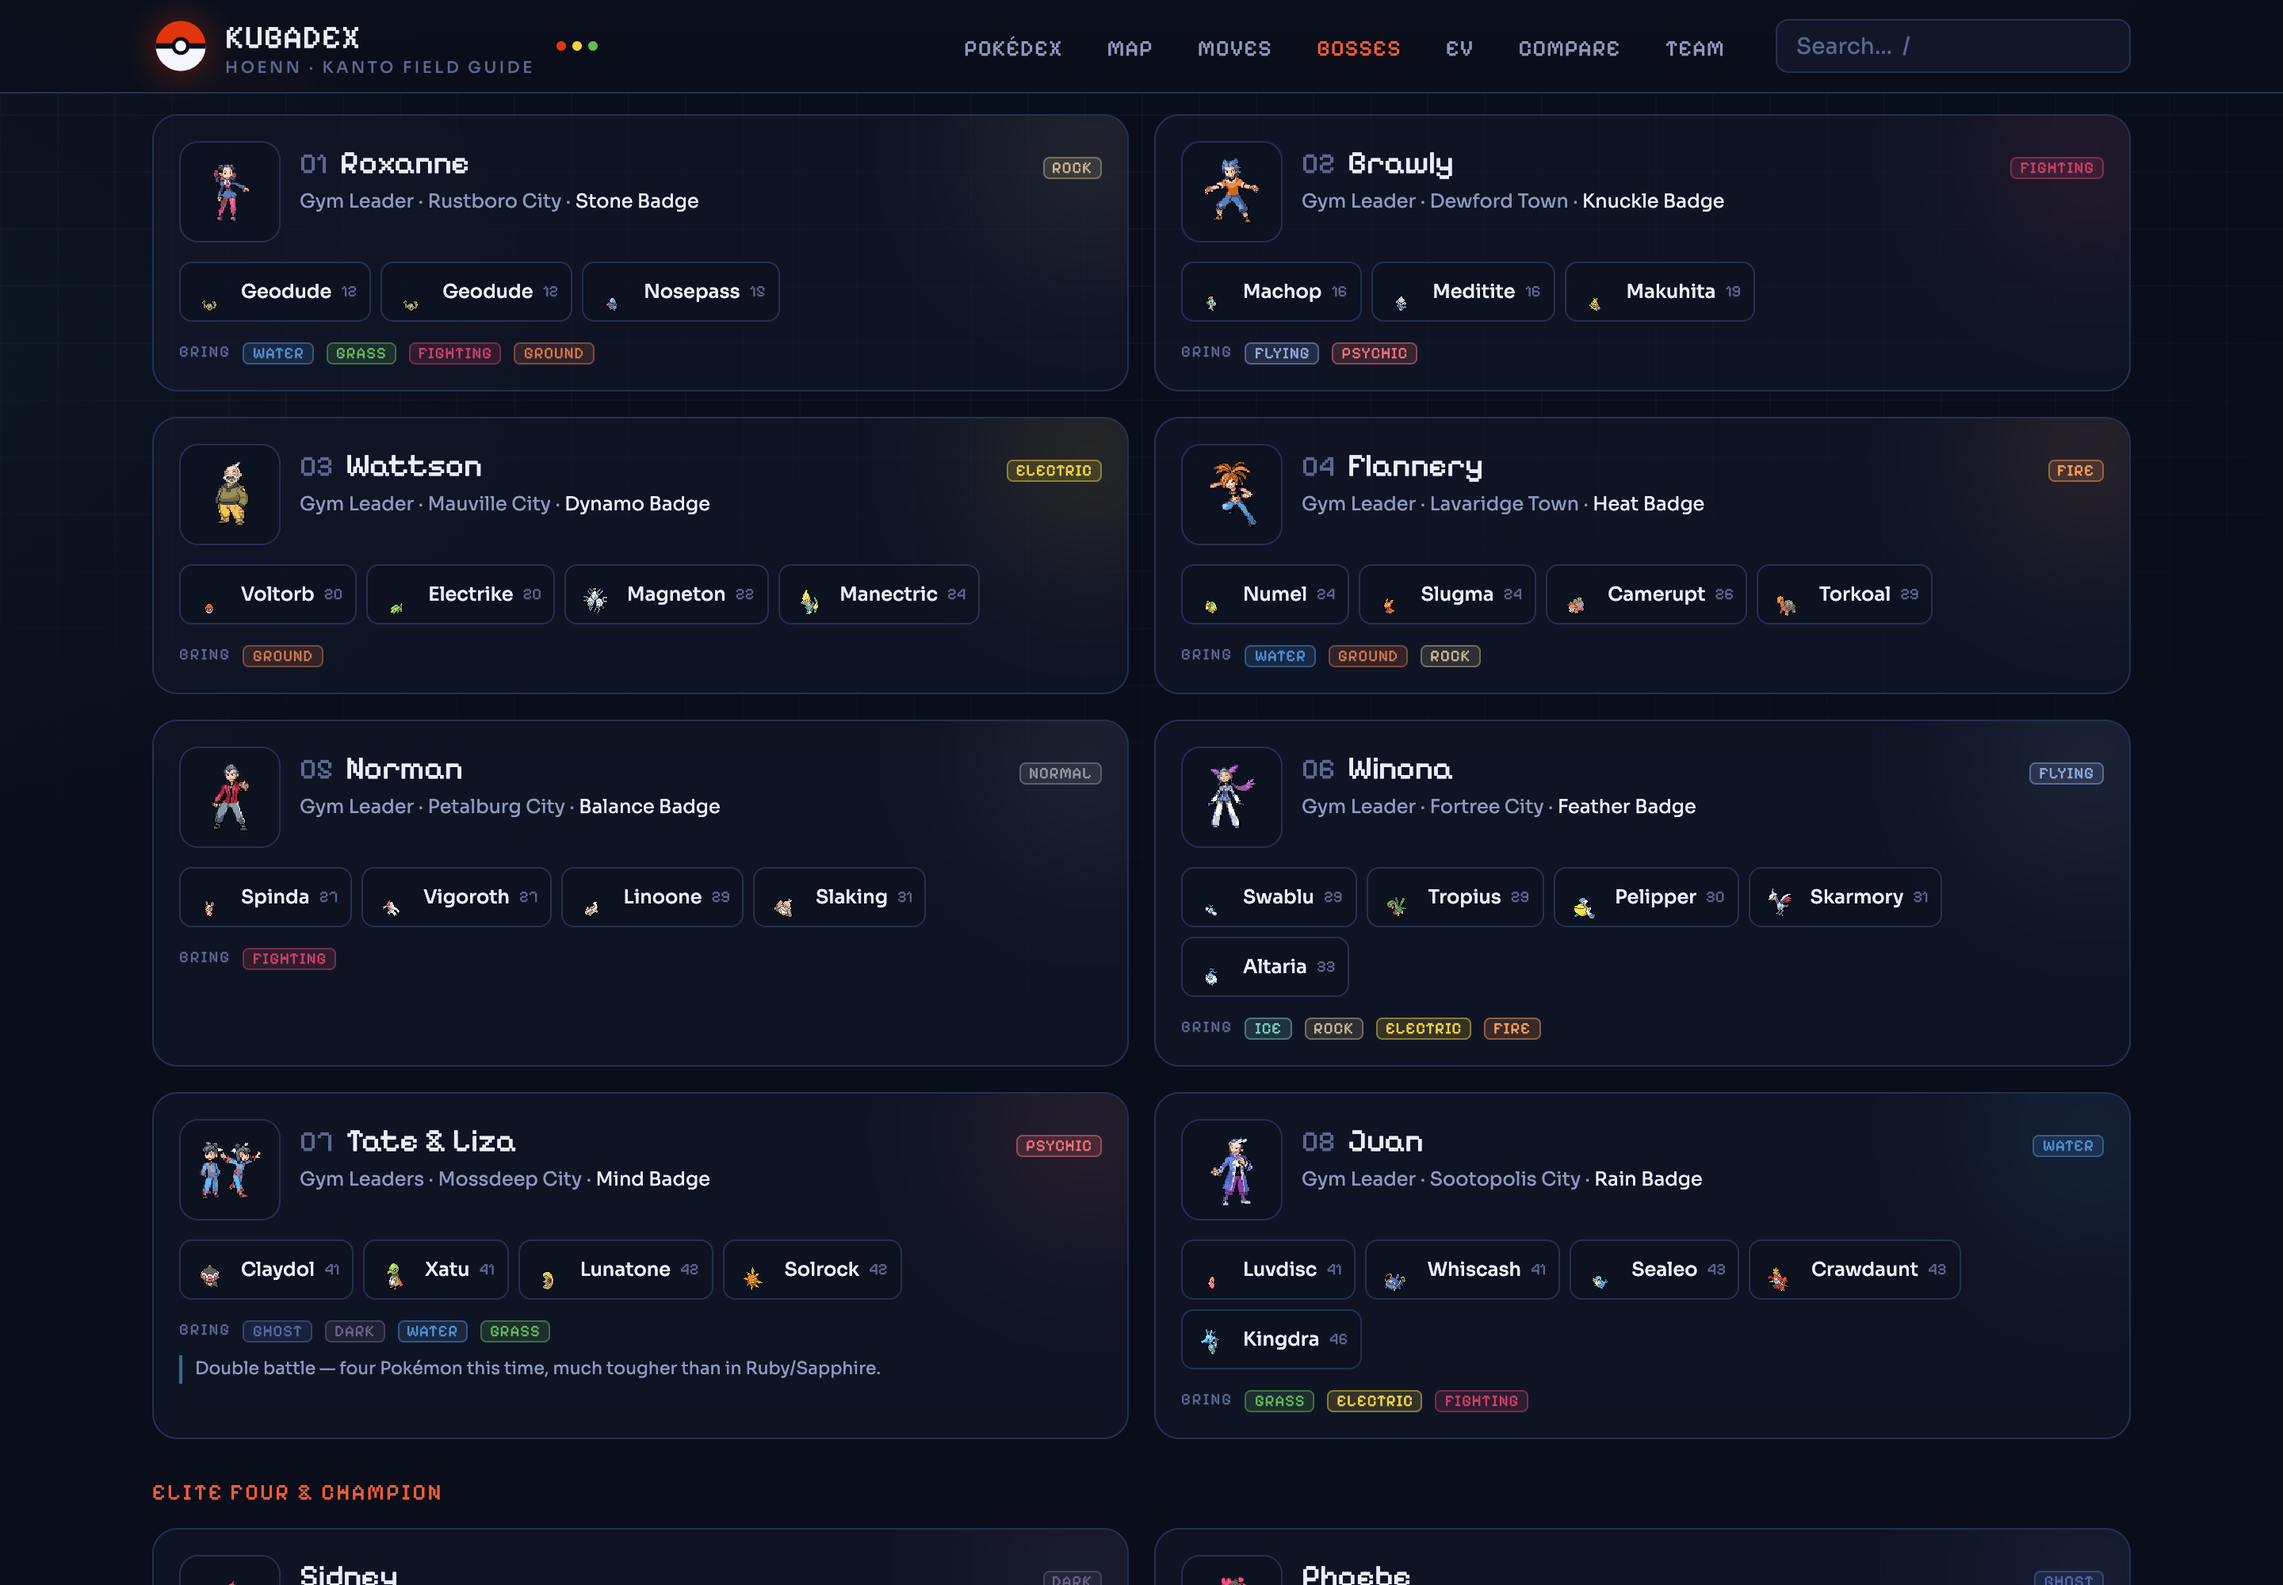
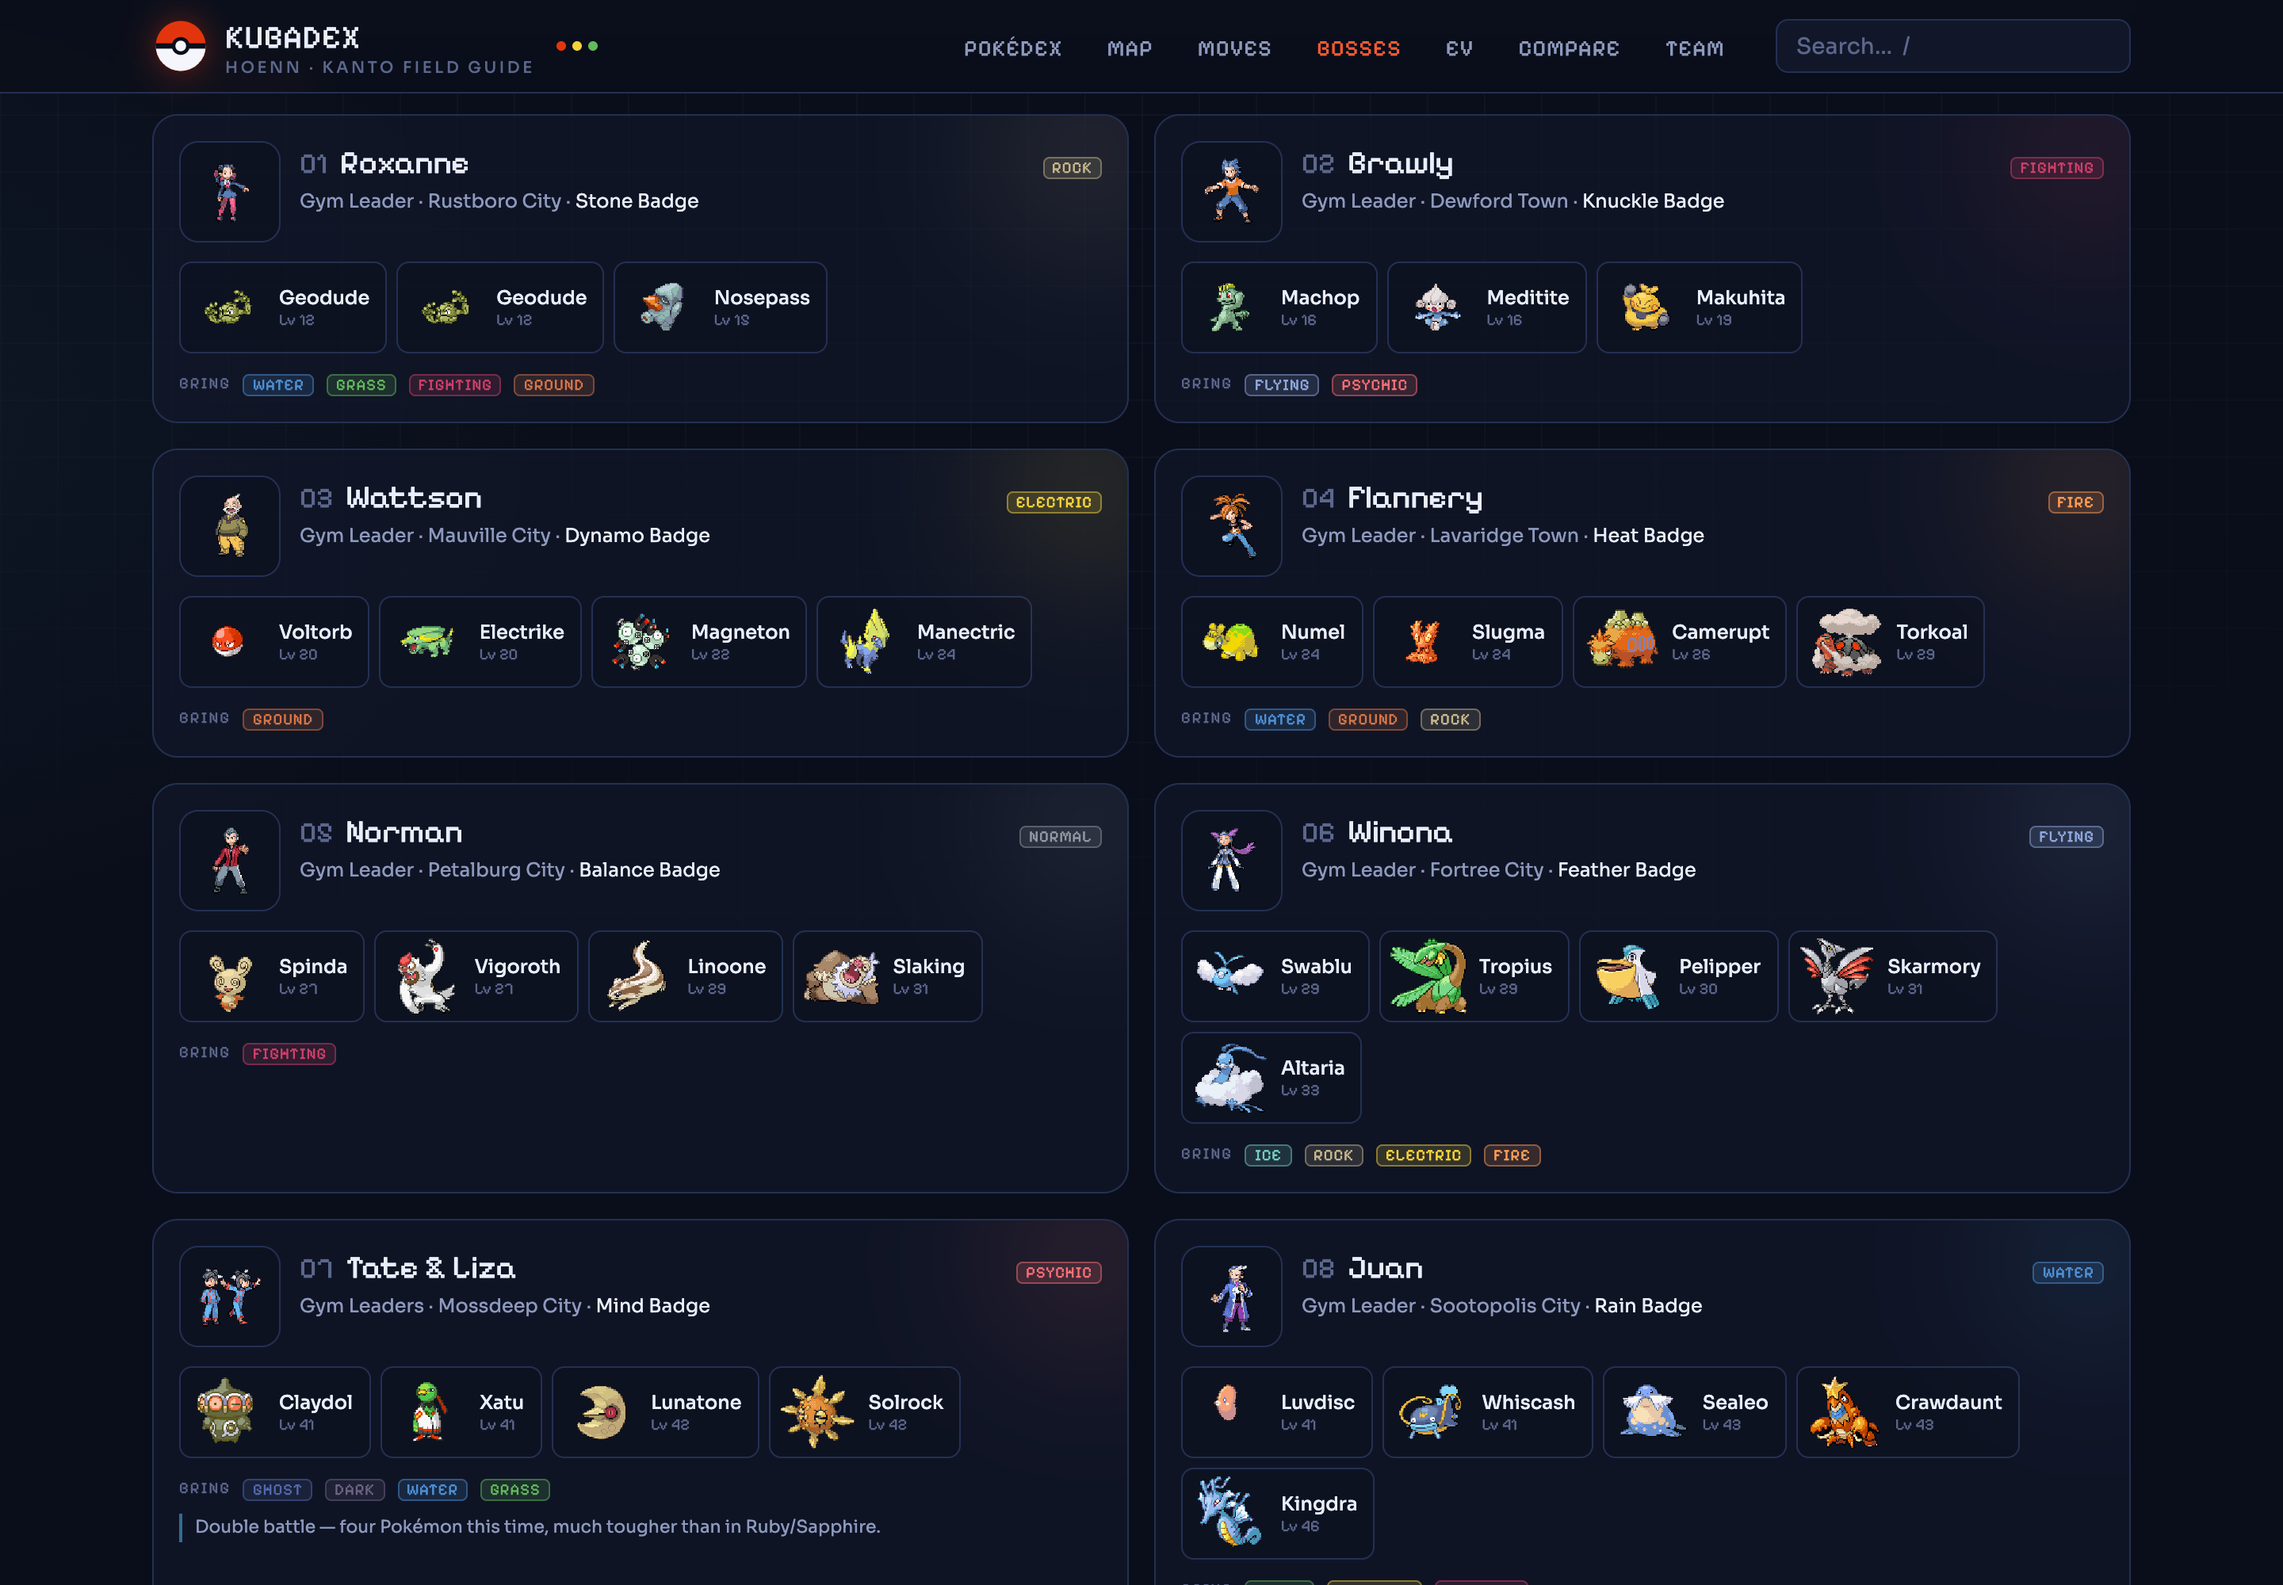
Enlarge boss team sprites for readability

diff --git a/src/views/BossesView.vue b/src/views/BossesView.vue
@@ -87,11 +87,13 @@ const league = computed(() => list.value.filter((b) => !b.title.startsWith('Gym'
             <RouterLink
               v-for="(m, mi) in b.team" :key="mi"
               :to="`/pokemon/${m.id}`"
-              class="flex items-center gap-1.5 rounded-lg border border-line bg-bg/40 py-1 pl-1 pr-2 transition-colors hover:border-line2 hover:bg-panel2"
+              class="group/mon flex items-center gap-2 rounded-lg border border-line bg-bg/40 py-1 pl-1.5 pr-2.5 transition-colors hover:border-line2 hover:bg-panel2"
             >
-              <img :src="spriteUrl(m.id, 'icons')" class="pixelated size-7" :alt="m.name" />
-              <span class="text-xs font-medium text-ink">{{ m.name }}</span>
-              <span class="font-display text-[10px] text-dim">{{ m.level }}</span>
+              <img :src="spriteUrl(m.id, 'gen3')" class="pixelated size-12 object-contain transition-transform duration-200 group-hover/mon:scale-110" :alt="m.name" />
+              <span class="flex flex-col leading-tight">
+                <span class="text-xs font-medium text-ink">{{ m.name }}</span>
+                <span class="font-display text-[10px] text-dim">Lv {{ m.level }}</span>
+              </span>
             </RouterLink>
           </div>
 
